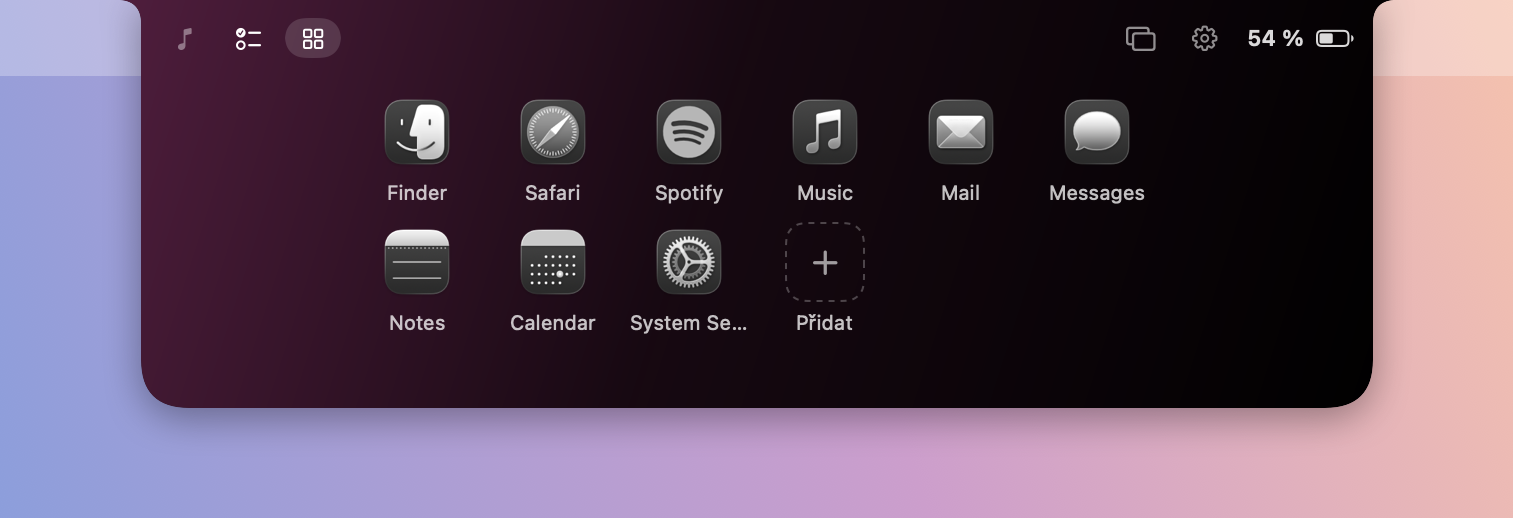
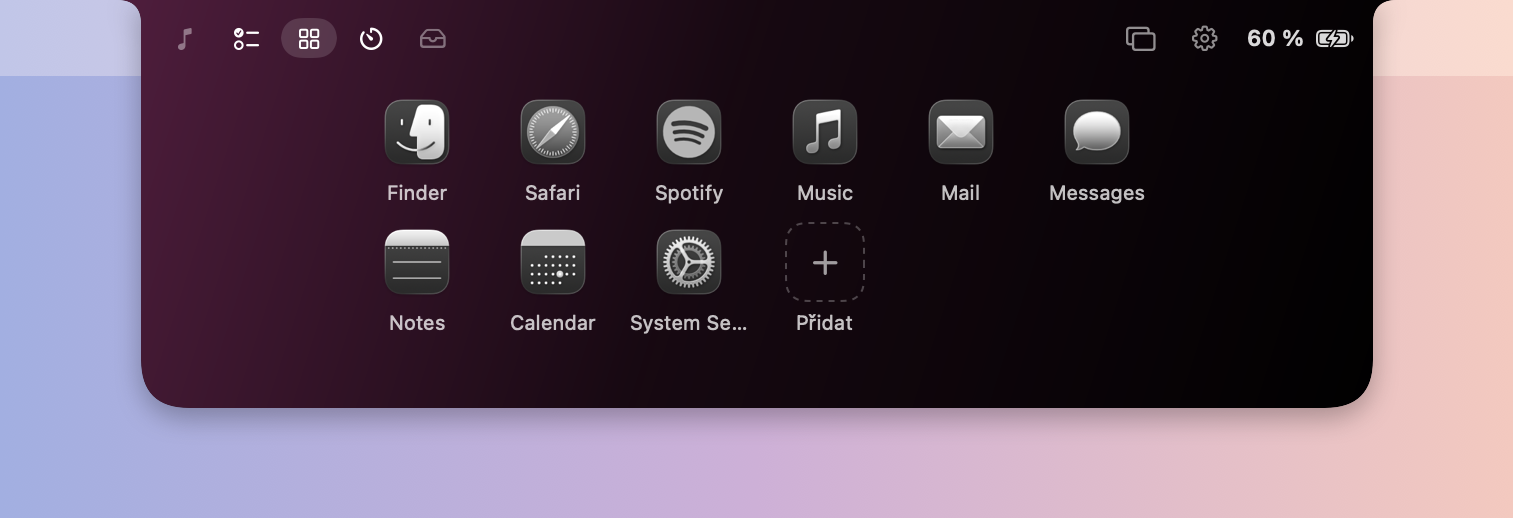
Version 1.0.3: no lyric flash, fresh screenshots
- The colour flash on each new lyric line is gone, with its setting,
  LyricPulse and GlowFlash.
- Beside the calendar the Spotify slider gets shorter instead of pushing
  the panel wider than itself, which cut off the calendar and the battery.
- New README screenshots from demo mode: the open panel, notes, apps with
  the default set, and the timer.

diff --git a/ResonataApp.swift b/ResonataApp.swift
@@ -31,7 +31,6 @@ final class AppDelegate: NSObject, NSApplicationDelegate {
     /// Flashes the notch as each new lyric line begins. Resonata doesn't
     /// listen to the computer's sound, so the lyrics' timing is the music's
     /// timing it shows.
-    private let lyricPulse = LyricPulse()
 
     private var cancellables = Set<AnyCancellable>()
 
@@ -76,14 +75,6 @@ final class AppDelegate: NSObject, NSApplicationDelegate {
         HotKey.shared.action = { [weak self] in self?.controller.toggle() }
         HotKey.shared.apply(Preferences.hotKey)
 
-        // A flash as each lyric line begins, re-armed on every change to the
-        // track (play, pause, seek, new song) or to its lyrics — if it's
-        // switched on in the settings; it's off unless asked for.
-        lyricPulse.onPulse = { [weak self] in
-            guard Preferences.lyricFlash else { return }
-            self?.model.pulse &+= 1
-        }
-
         // Plugging in the charger gets a moment in the closed notch too.
         PowerWatcher.shared.onPlugIn = { [weak self] battery in
             guard Preferences.showChargingPeek else { return }
@@ -124,10 +115,6 @@ final class AppDelegate: NSObject, NSApplicationDelegate {
         // A new song gets a moment in the closed notch.
         model.$track
             .sink { [weak self] track in self?.songPeek.trackChanged(to: track) }
-            .store(in: &cancellables)
-        model.$track
-            .combineLatest(model.$lyrics)
-            .sink { [weak self] track, lines in self?.lyricPulse.update(track: track, lines: lines) }
             .store(in: &cancellables)
 
         // Apple Music's heart, read once per song.
@@ -196,14 +183,6 @@ final class AppDelegate: NSObject, NSApplicationDelegate {
                 MainActor.assumeIsolated {
                     if let tab = PanelTab(rawValue: name ?? "") { self?.model.tab = tab }
                 }
-            }
-        }
-
-        // `RESONATA_DEBUG_FAKE_PULSES=1`: a flash twice a second, so the cost
-        // of the flash can be measured without music.
-        if ProcessInfo.processInfo.environment["RESONATA_DEBUG_FAKE_PULSES"] == "1" {
-            Timer.scheduledTimer(withTimeInterval: 0.5, repeats: true) { [weak self] _ in
-                MainActor.assumeIsolated { self?.model.pulse &+= 1 }
             }
         }
 
@@ -338,6 +317,5 @@ final class AppDelegate: NSObject, NSApplicationDelegate {
         NotesStore.shared.saveIfPending()
         mediaRemote.stop()
         appleScript?.stop()
-        lyricPulse.stop()
     }
 }

diff --git a/Preferences.swift b/Preferences.swift
@@ -25,7 +25,6 @@ enum Preferences {
         static let pomodoroLongRest = "pomodoroLongRest"
         static let pomodoroRounds = "pomodoroRounds"
         static let pageSwipe = "pageSwipe"
-        static let lyricFlash = "lyricFlash"
     }
 
     /// Call before anything reads a preference.
@@ -47,7 +46,6 @@ enum Preferences {
             Key.pomodoroLongRest: 15,
             Key.pomodoroRounds: 4,
             Key.pageSwipe: PageSwipe.withFingers.rawValue,
-            Key.lyricFlash: false,
             Key.openMode: OpenMode.nook.rawValue,
             Key.quickApps: QuickApps.defaultPaths().joined(separator: "\n"),
         ])
@@ -63,10 +61,6 @@ enum Preferences {
         let value = UserDefaults.standard.double(forKey: Key.idleTimeout)
         return value > 0 ? value : 10
     }
-
-    /// The colour wash flashing as each lyric line begins. Off unless asked
-    /// for: lines often start on the beat, and it read as flickering.
-    static var lyricFlash: Bool { UserDefaults.standard.bool(forKey: Key.lyricFlash) }
 
     static var showLyrics: Bool { UserDefaults.standard.bool(forKey: Key.showLyrics) }
 

diff --git a/Tests/main.swift b/Tests/main.swift
@@ -185,18 +185,6 @@ check(waveRect.insetBy(dx: -0.5, dy: -0.5).contains(waveFill.boundingBoxOfPath),
       "wave: the curve never leaves its strip", "\(waveFill.boundingBoxOfPath)")
 check(abs(waveLine.boundingBoxOfPath.width - waveRect.width) < 0.5, "wave: spans the full width")
 
-// MARK: - Lyric pulse
-
-let pulseLines = [LyricLine(time: 10, text: "a"), LyricLine(time: 15, text: ""),
-                  LyricLine(time: 20, text: "b"), LyricLine(time: 30, text: "c")]
-check(LyricPulse.nextLineTime(in: pulseLines, after: 0) == 10, "pulse: the first line, from the start")
-check(LyricPulse.nextLineTime(in: pulseLines, after: 10) == 20,
-      "pulse: skips an instrumental break (empty line)")
-check(LyricPulse.nextLineTime(in: pulseLines, after: 9.97) == 20,
-      "pulse: a line starting this instant doesn't fire twice")
-check(LyricPulse.nextLineTime(in: pulseLines, after: 31) == nil, "pulse: nothing after the last line")
-check(LyricPulse.nextLineTime(in: [], after: 0) == nil, "pulse: no lyrics, no pulse")
-
 // MARK: - Next features
 
 check(HotKeyChoice.off.combo == nil, "shortcut: off registers nothing")

diff --git a/SettingsWindow.swift b/SettingsWindow.swift
@@ -44,7 +44,6 @@ struct SettingsView: View {
     @AppStorage(Preferences.Key.pomodoroRounds) private var pomodoroRounds = 4
     @AppStorage(Preferences.Key.openMode) private var openMode = OpenMode.nook.rawValue
     @AppStorage(Preferences.Key.pageSwipe) private var pageSwipe = PageSwipe.withFingers.rawValue
-    @AppStorage(Preferences.Key.lyricFlash) private var lyricFlash = false
     @AppStorage(Preferences.Key.quickApps) private var quickApps = ""
 
     @State private var openAtLogin = LoginItem.isEnabled
@@ -88,7 +87,6 @@ struct SettingsView: View {
                     ForEach(PageSwipe.allCases) { Text($0.title).tag($0.rawValue) }
                 }
                 Toggle("Texty písní", isOn: $showLyrics)
-                Toggle("Bliknout barvou při novém řádku textu", isOn: $lyricFlash)
                 Toggle("Kalendář vedle přehrávače", isOn: $showCalendar)
                 Picker("Barva vlny", selection: $waveColour) {
                     ForEach(WaveColour.allCases) { Text($0.title).tag($0.rawValue) }

diff --git a/NotchView.swift b/NotchView.swift
@@ -226,13 +226,6 @@ struct NotchView: View {
                         // pass for the bezel, and a gradient that bottoms out
                         // anywhere above black would give the illusion away.
                         shape.fill(accentWash)
-                        // The same wash, brighter, flashing and fading as
-                        // each new lyric line begins. Core Animation runs the
-                        // fade, so a flash costs this app nothing per frame.
-                        GlowFlash(shape: shape,
-                                  color: colourable ? accent : nil,
-                                  expanded: model.isExpanded,
-                                  pulse: model.pulse)
                     })
                 }
             ))

diff --git a/SpotifyVolume.swift b/SpotifyVolume.swift
@@ -96,7 +96,11 @@ struct SpotifyVolumeControl: View {
                     Slider(value: Binding(get: { volume }, set: { setVolume($0) }), in: 0...100)
                     .controlSize(.mini)
                     .tint(tint)
-                    .frame(width: 96)
+                    // Shorter when room is short: beside the calendar the
+                    // player column is narrow, and a fixed 96 pushed the
+                    // whole panel wider than itself — the calendar and the
+                    // battery came off the right-hand side.
+                    .frame(minWidth: 40, maxWidth: 96)
                 }
                 .help("Hlasitost Spotify — jen Spotify, ne celého Macu")
                 .transition(.opacity)

diff --git a/Motion.swift b/Motion.swift
@@ -7,9 +7,7 @@ import Foundation
 /// follow the music's frequencies. What it can be is calm and organic rather
 /// than mechanical: each point is a sum of three slow sines at unrelated
 /// speeds and phases, so neighbouring points move differently and the whole
-/// never visibly repeats. It runs only while something is playing, and the
-/// glow on each new lyric line (`LyricPulse`) supplies the timing the music
-/// actually has.
+/// never visibly repeats. It runs only while something is playing.
 enum Motion {
 
     /// Height of point `index` at time `time`, 0...1, centred on 0.5.

diff --git a/ScreenGeometry.swift b/ScreenGeometry.swift
@@ -66,10 +66,6 @@ enum NotchMetrics {
     /// Shifts the waveform further left, on its own. Applied as trailing
     /// padding, so it moves the wave without touching the artwork opposite it.
     static let waveformNudge: CGFloat = 0
-
-    /// How much brighter the artwork colour wash flashes as each new lyric
-    /// line begins, as a multiplier on its opacity. 1.0 would double it.
-    static let flashBloom: Double = 0.5
 }
 
 extension NSScreen {

diff --git a/NotchView+Expanded.swift b/NotchView+Expanded.swift
@@ -246,6 +246,7 @@ extension NotchView {
                     Spacer(minLength: 0)
                     if isSpotify {
                         SpotifyVolumeControl(tint: accentText ?? .white)
+                            .layoutPriority(-1)
                             // A new view for each song, so the level is read
                             // again — Spotify's own slider may have moved.
                             .id(model.track?.title)

diff --git a/NotchModel.swift b/NotchModel.swift
@@ -33,10 +33,6 @@ final class NotchModel: ObservableObject {
     /// from the "Aplikace" page, say.
     var close: (() -> Void)?
 
-    /// Counts up once as each new line of synced lyrics begins — see
-    /// `LyricPulse`. Each change flashes the colour wash.
-    @Published var pulse = 0
-
     /// The current track's artwork, decoded once per URL.
     ///
     /// The collapsed pill and the expanded panel are different views, and

diff --git a/README.md b/README.md
@@ -14,8 +14,7 @@ recording permission of any kind. It knows what's playing from macOS's own
 the wave move with a calm made-up motion while something plays and rest when
 it's paused. The lyric line scrolls up as each new line begins, the next
 rising in from below, so the panel stays in time with the song without
-hearing it. (The colour can also flash on each new line; that's off unless
-switched on in the settings.)
+hearing it.
 
 macOS 14+, Swift 6, no Xcode project needed. See `NAVOD.txt` for the
 step-by-step (Czech).
@@ -29,10 +28,13 @@ to the right with the title and artist:
 ![The closed notch](docs/closed.png)
 ![The song sliding out of the notch](docs/peek.png)
 
-Two more pages: a note with a to-do list, and app shortcuts.
+More pages — two fingers sideways on the trackpad turn them: a note with a
+to-do list, app shortcuts, a timer (any length, or Pomodoro) and a shelf for
+files.
 
 ![Notes and to-dos](docs/notes.png)
 ![App shortcuts](docs/apps.png)
+![The timer](docs/timer.png)
 
 The song, cover, lyrics and events in these pictures are made up: they come
 from the app's demo mode (`RESONATA_DEMO=1`, see `Demo.swift`), not from
@@ -86,8 +88,6 @@ keychain; `build.sh` uses it when present.
 | `Motion.swift` | The made-up motion behind the bars and the wave |
 | `MusicBars.swift` | The pill's bars, as Core Animation layers on a display link |
 | `MusicWave.swift` | The open panel's wave: Catmull-Rom curve, gradient fill |
-| `LyricPulse.swift` | Fires as each lyric line begins: one timer, set for the next line |
-| `GlowFlash.swift` | The colour flash, a render-server animation masked to the notch |
 | `SongPeek.swift` | Decides when a new song gets a moment in the closed notch |
 | `Notes.swift`, `NotesView.swift` | The notes page and its local storage |
 | `QuickApps.swift`, `QuickAppsView.swift` | The app shortcuts page and its list |
@@ -101,16 +101,12 @@ keychain; `build.sh` uses it when present.
 ## Cost
 
 About 1.2% CPU on an M4 while something plays (the bars' display link), and
-nothing at rest: the display links stop when playback does, and the lyric
-flash is a single timer set for the next line rather than a poll.
+nothing at rest: the display links stop when playback does.
 
-The bars and the flash used to be SwiftUI animations, which re-ran the view
-graph and re-rasterised every frame (4.5%, 8.7% with flashes). They are
-`CALayer`s moved by a display link and a `CABasicAnimation` that runs in the
-render server.
+The bars used to be a SwiftUI animation, which re-ran the view graph and
+re-rasterised every frame (4.5%). They are `CALayer`s moved by a display link.
 
-Measure with `RESONATA_DEBUG_FORCE_LIVE=1` (animate as if playing) and
-`RESONATA_DEBUG_FAKE_PULSES=1` (a flash every 0.5 s).
+Measure with `RESONATA_DEBUG_FORCE_LIVE=1` (animate as if playing).
 
 ## No listening
 
@@ -192,7 +188,7 @@ Right-click → Nastavení… opens a settings window: open at login, how the
 notch opens (click, hover or gestures — see below), a global
 shortcut to open the notch (⇧⌘Space by default; Carbon hot keys, so no
 Accessibility permission), how long after a pause the notch shrinks,
-animation speed, lyrics on/off, the lyric flash on/off, the calendar on/off, and the wave's colour (album, white, or your
+animation speed, lyrics on/off, the calendar on/off, and the wave's colour (album, white, or your
 own). Apple Music tracks get a heart button (`favorited` over AppleScript);
 Spotify has no way to like a song from the Mac short of its web API. Spotify
 tracks get a slider for Spotify's own volume instead (`sound volume` over
@@ -304,8 +300,8 @@ into the app.
 
 Builds `Tests/main.swift` against the logic files with plain `swiftc` (no
 Xcode project, no XCTest) and runs it: the interpolated playhead, the LRC
-parser and line lookup, the made-up motion and the wave's curve, when the
-lyric flash fires, and the MediaRemote stream parser fed
+parser and line lookup, the made-up motion and the wave's curve, and the
+MediaRemote stream parser fed
 recorded `stream --micros` output — including a track change where the new
 artwork arrives in a later diff than the new title. Exits non-zero on any
 failure.
@@ -394,8 +390,6 @@ as before. Verified on macOS 26.5.
 
 - Live progress bar interpolated between syncs — `Track.position(at:)`
 - Click-and-drag scrubbing
-- Synced lyric flash in place of beat detection (the audio visualiser was
-  removed on purpose — no listening)
 - Synced lyrics: LRCLIB `/get` with an exact match, falling back to `/search`
   on title and artist; the line being sung shows under the artist. Cached under `~/Library/Caches/com.local.resonata/lyrics/`.
 
